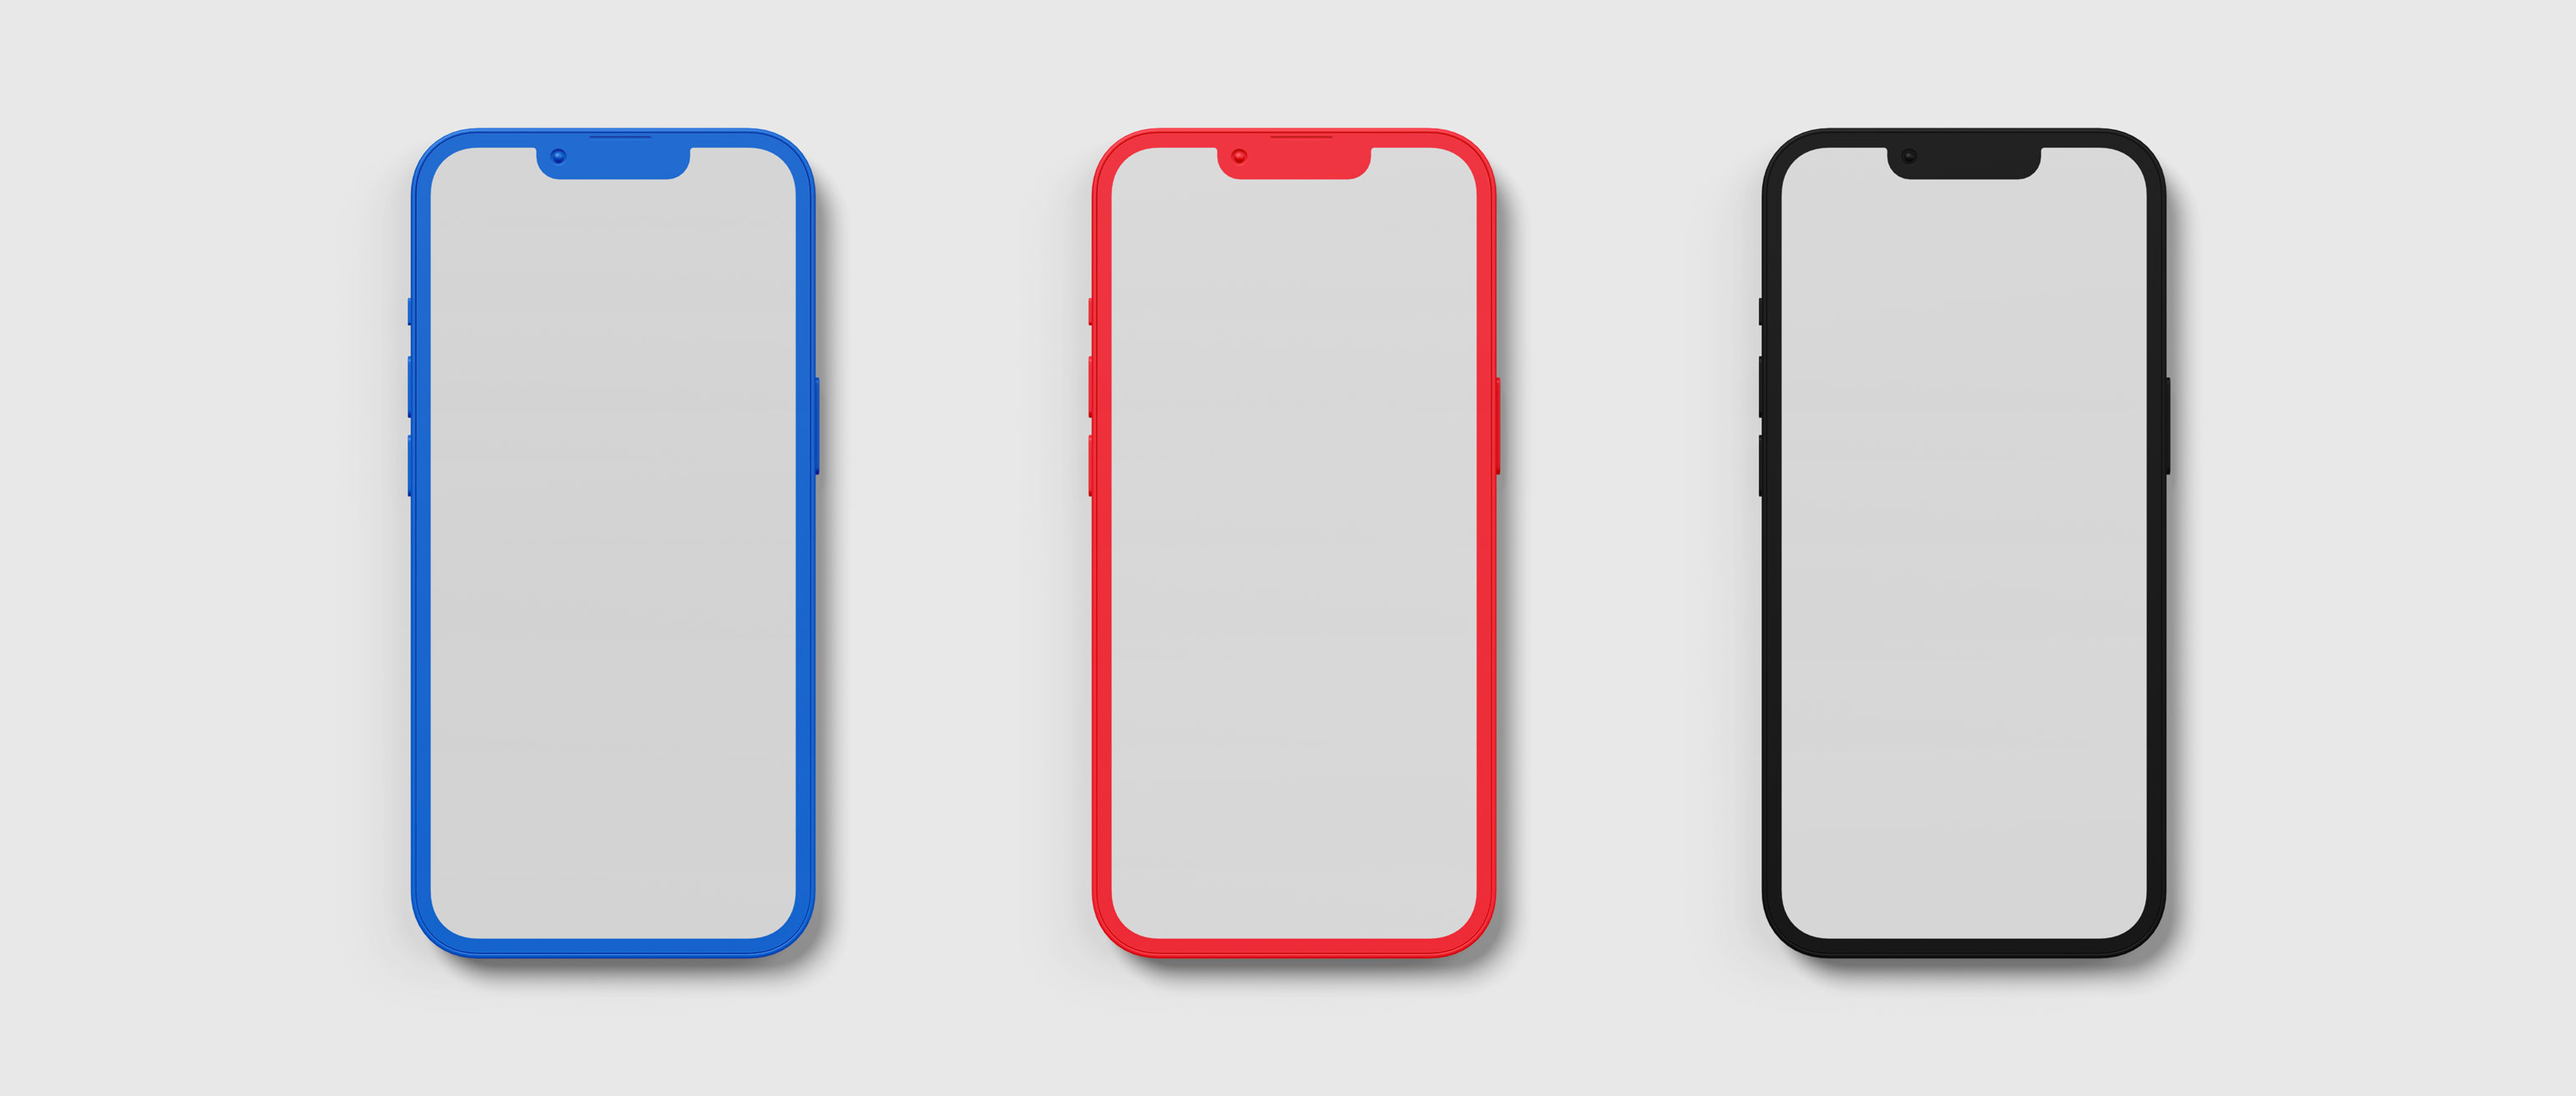
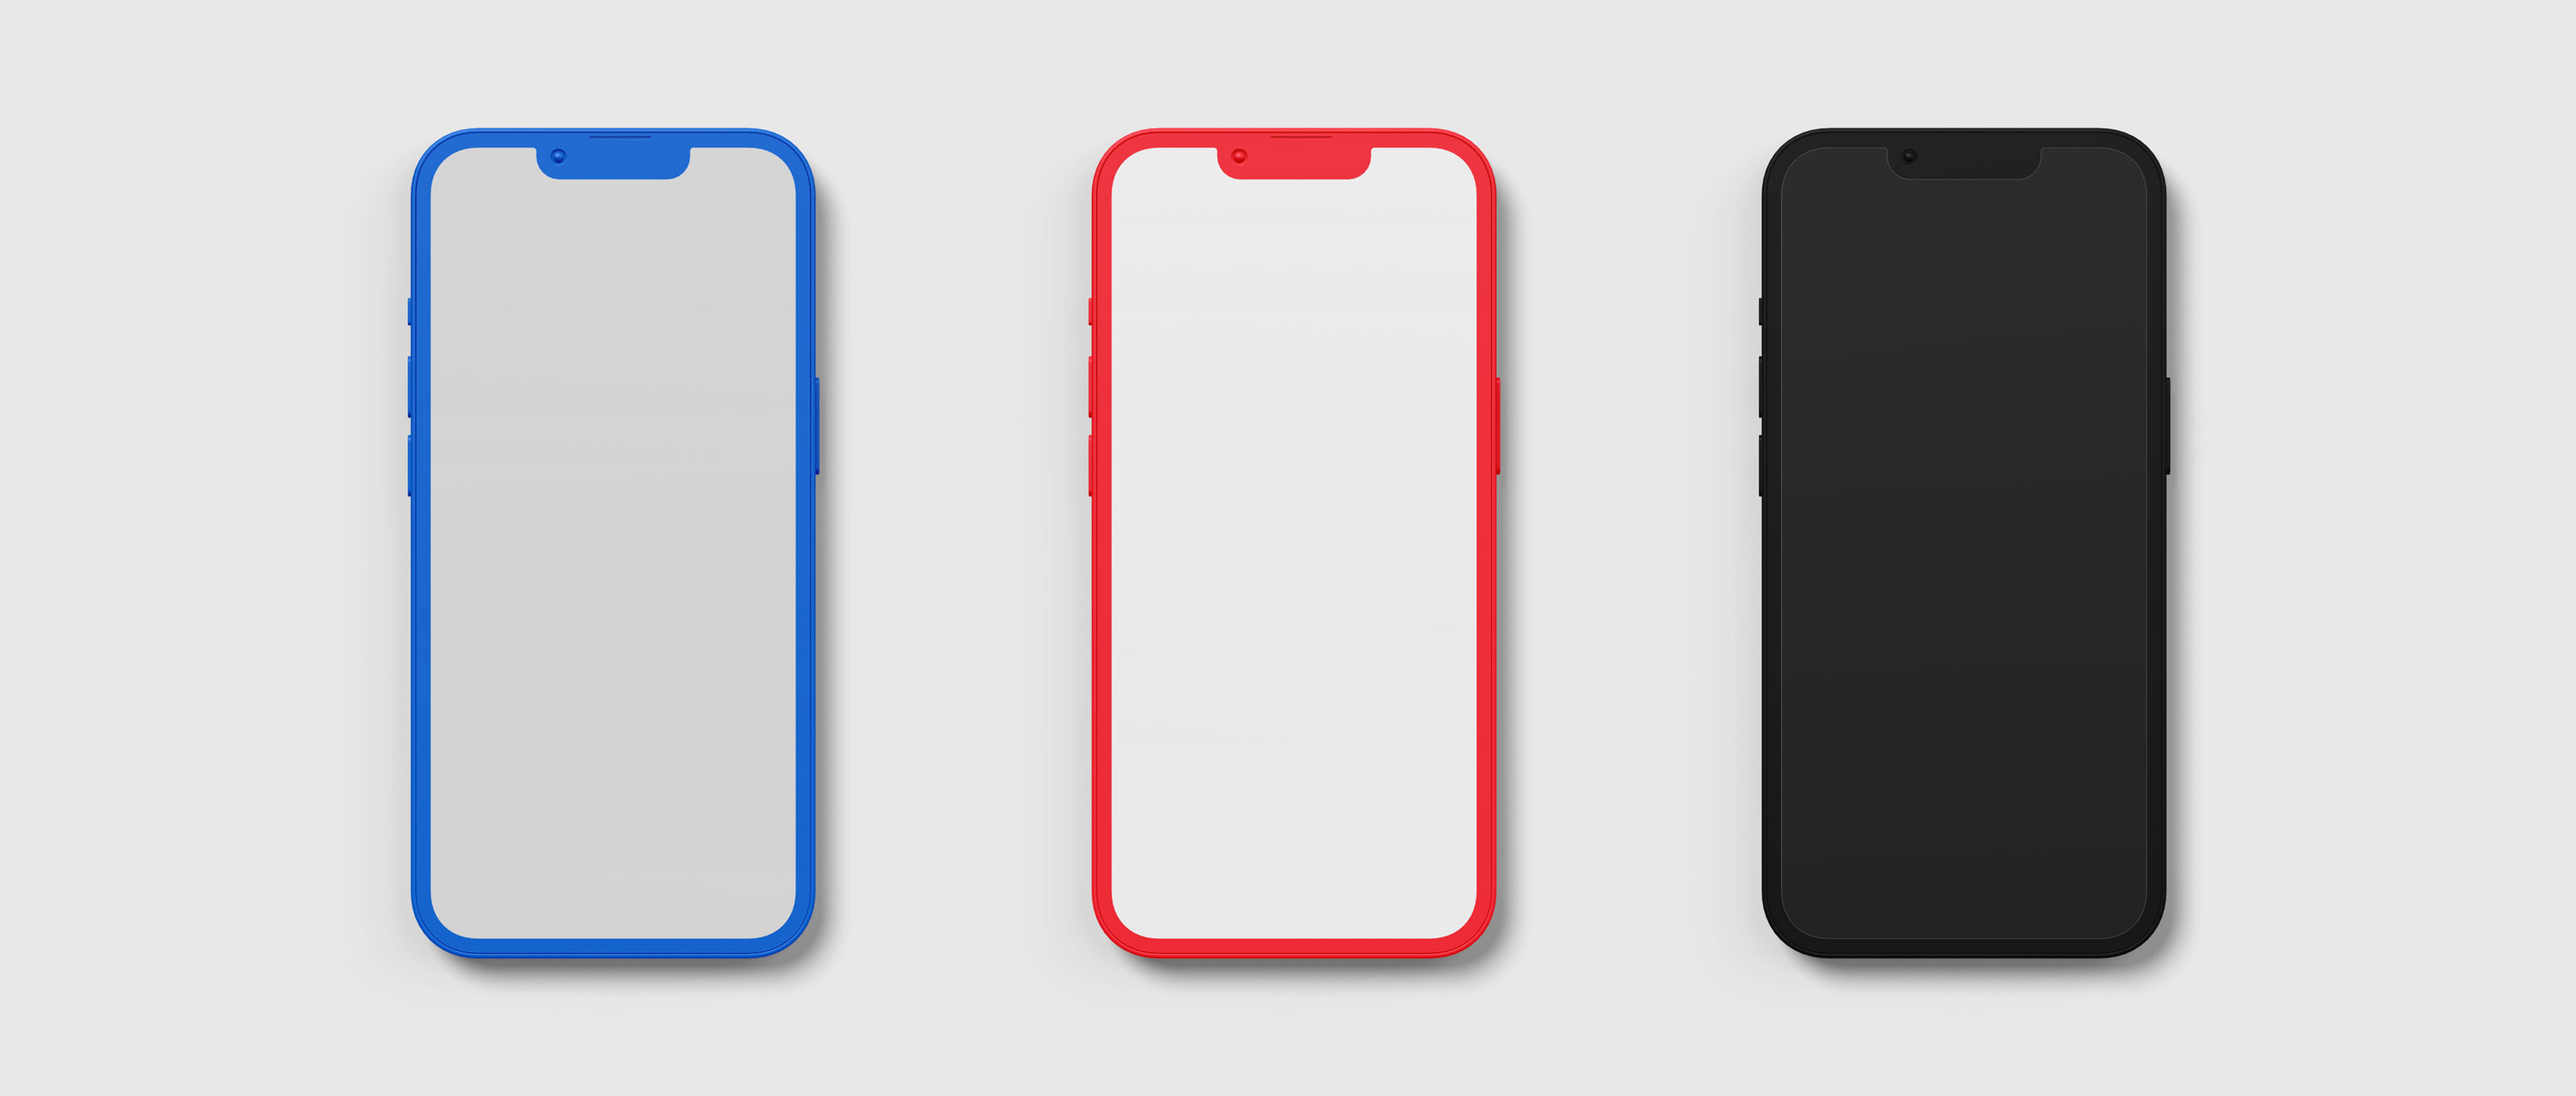
troca dos tablets pelos perfis sociais

Changed region(s): [[0.6844, 0.1249, 0.8399, 0.8743]]

diff --git a/trampos/up.html b/trampos/up.html
@@ -109,7 +109,7 @@
                     <img src="../images/pages/up/posts.jpg" class="projeto_imgs" alt="">
                 </div>
                 <div class="box box1-a">
-                    <img src="../images/pages/up/tablet.jpg" class="projeto_imgs" alt="">
+                    <img src="../images/pages/up/perfis.jpg" class="projeto_imgs" alt="">
                 </div>
                 <div class="box box1-b">
                     <img src="../images/pages/up/mapa.jpg" class="projeto_imgs" alt="">
